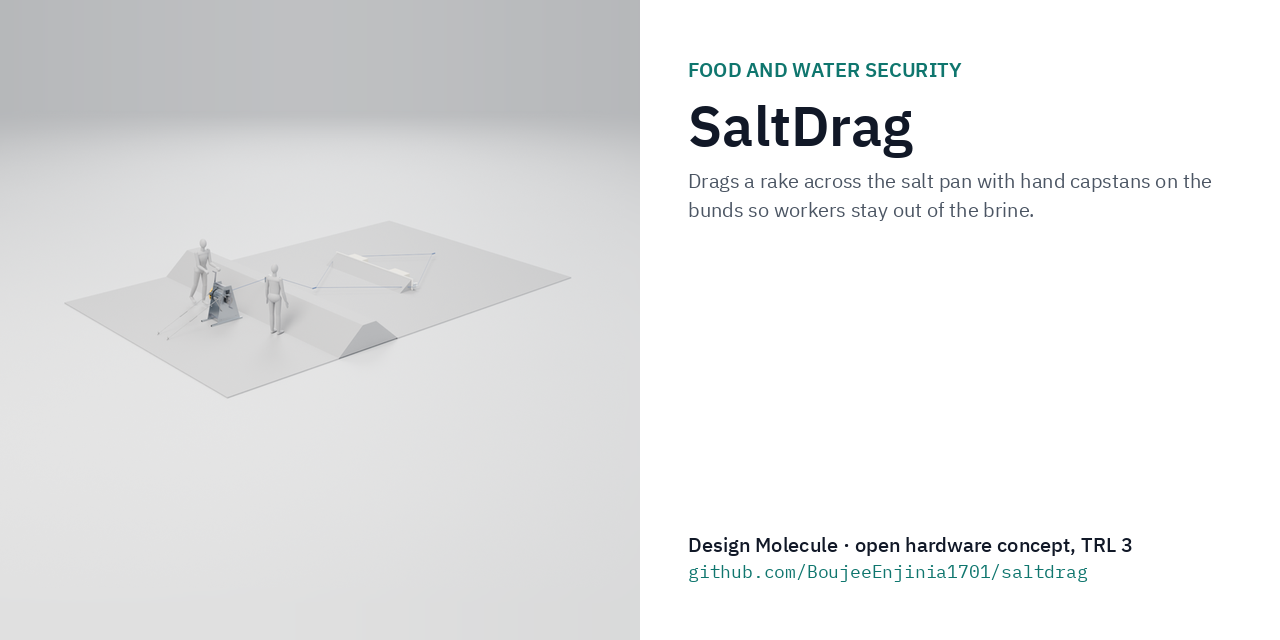
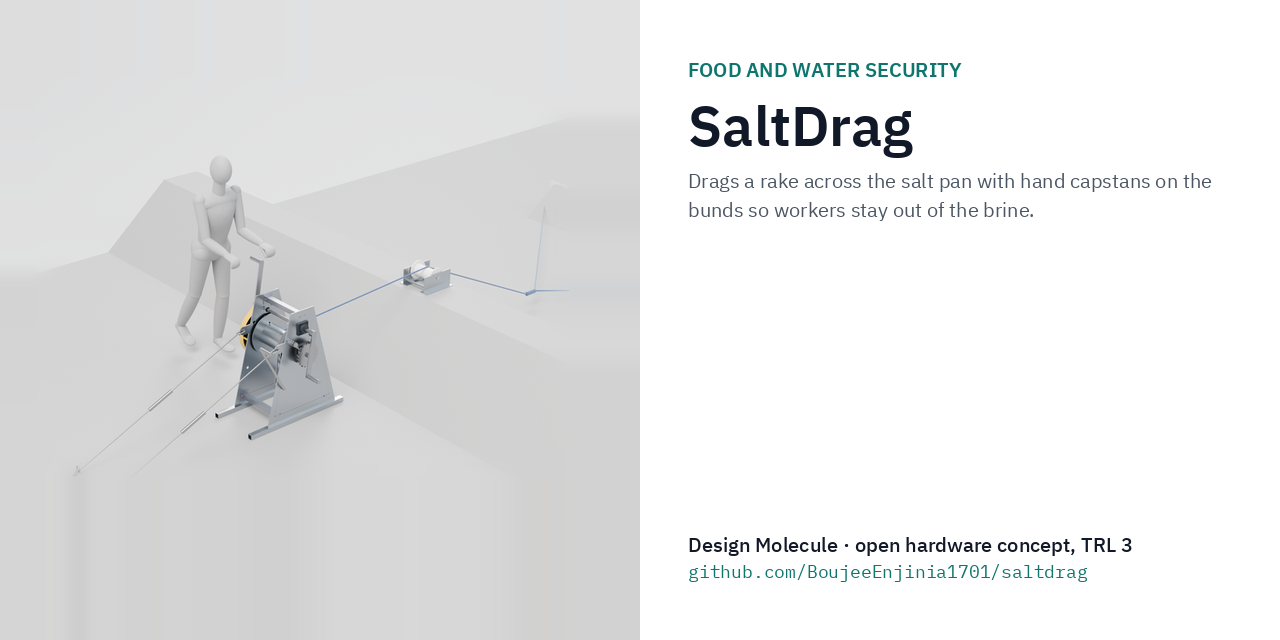
Carry Amish's 2026-10-03 requirement decisions into the design
Amish chose option A on each requirement decision ("1A 2A 3A 4A 5A 6A 7A 8A 9A 10A 11A"). CampBreak: primed foot valve, pre-coupled suction hose and a drilled 30 s gather (R9 now 3.2 min at 100 m, met at 70 m). SiltHaul: second box on the return run (R1 restated and met, 0.57) and a flat-pack frame (R9). VoidScope: cable-steered camera tip (R11 restated and met). CanalRung: 9 mm ropes and the larger footing as standard (R2 restated to 4.5 kg, R6 met). DrumPanel: lever notching punch, second shear head and a fine-pitch bending roll adjuster (R7 2.26 against 2.5; R5 met). BreakHook: fork prop (droop 0.27 m). LevelHull: modules 10 percent bigger (R12 25 mm, R13 44 mm). Models, BOMs, calculations, drawings, build plans and photoreal renders updated; new questions are in each register. SaltDrag and RubbleJack heroes reframed; VatReel and SiltHaul READMEs state "not for fabrication".

diff --git a/docs/REVIEW.md b/docs/REVIEW.md
@@ -124,3 +124,5 @@ SiltHaul names the hand capstan as a shared block; SaltDrag's capstan (SDG-DWG-1
 ## 2026-10-03: photoreal renders
 
 Rendered with Blender Cycles on Amish's Mac from `cad/src/product_model.py`; captioned with `.kit/photo_caption.py`; `media/card.png` and `media/social-preview.png` made with `.kit/cards.py`. Views: hero, exploded, detail. image_qc passes and `render.py --check` has no FAIL.
+
+2026-10-03: hero render reframed so the product fills the frame (saltdrag).
